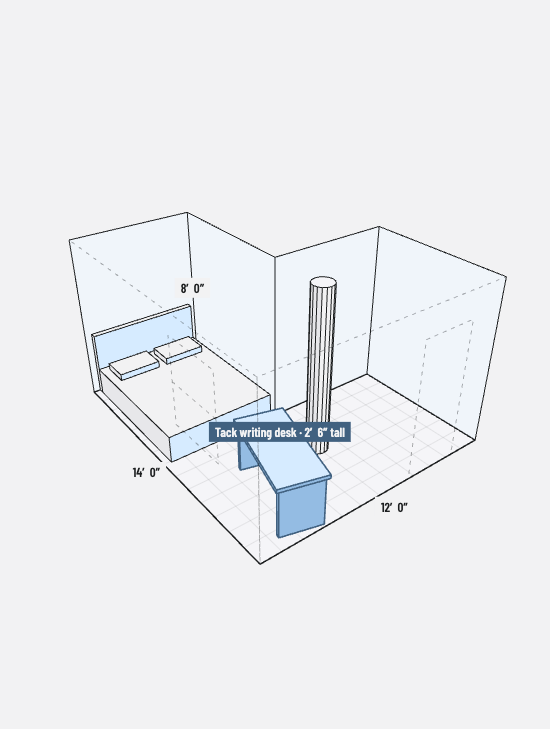
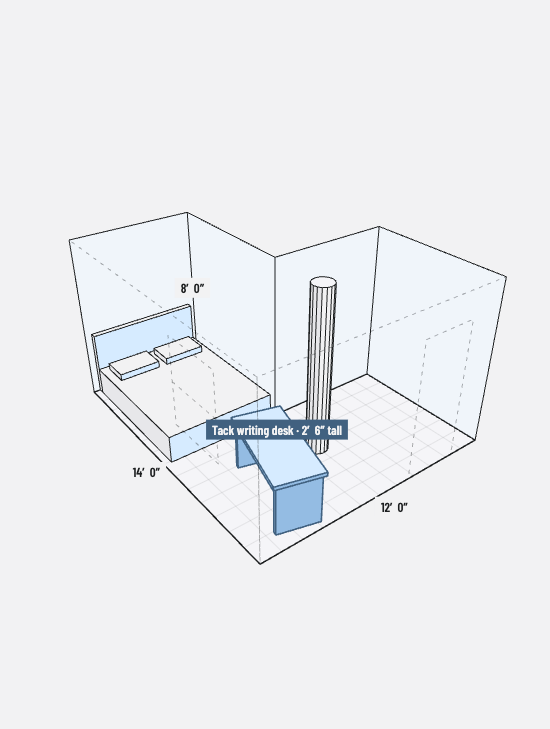
docs(room-planner): sharing live check run 2
Claude-Session: https://claude.ai/code/session_015TSBugnNtqeGNLtF4ZZCt3

Changed region(s): [[0.3709, 0.5432, 0.6491, 0.7545]]

diff --git a/docs/room-planner/verification/2026-11-17-sharing-live-check.md b/docs/room-planner/verification/2026-11-17-sharing-live-check.md
@@ -91,3 +91,89 @@ All in `docs/room-planner/verification/shots-sharing/`, each looked at after sav
   `Download 3D view` greyed with its reason).
 - `clipboard-fallback.png` (S16, page screenshot: the `Share link` field with the link selected).
 - `banner-and-notice.png` (S18, page screenshot: storage notice and view-only banner together).
+
+## Run 2
+
+- **Run on:** 2026-11-17, 22:19 to 22:23 UTC, after plan Amendments 2 and 3
+  (`docs/room-planner/plans/2026-11-17-sharing.md`).
+- **Commit checked:** `0876252` (`test(room-planner): make the Copied-timer test deterministic`),
+  branch `sharing`; the code fixes are in `7b918e6`. `git log` printed `0876252` as head before and
+  after the run, and nothing under `room-planner/` differs from it.
+- **Browser, viewport, URL, server:** as in run 1 (Playwright Chromium 156.0.8078.82, 1440 × 900 in
+  every context, device pixel ratio 1, `http://localhost:3478/room-planner` on the dev server that
+  was already running; it hot-reloaded the fixes and was not restarted). WebGL available. Every row
+  ran in a new browser context; reading methods as in run 1.
+- **Rows run:** S1, S2, S3, S5, S6, S7, S8, S10, S11 (amended checks), S12, S13, S15, S17, S18 and
+  the new rows X1 to X4. Not rerun (not asked for): S4, S9, S14, S16.
+- **Share link:** the same 470-character link as run 1 (the seeded plan encodes the same way).
+- **Images replaced:** `room-plan.png`, `room-3d.png` and `room-3d-blueprint.png` now hold run 2's
+  downloads; run 1's versions are in commit `b769853`.
+
+### Failures first (run 2)
+
+None. Every row run in run 2 passed.
+
+### Rows (run 2, `0876252`)
+
+| Row | What was done | Expected | Result | What was seen |
+|---|---|---|---|---|
+| S1 | New context, clipboard granted; planner (stored `null`); `Share` → `Copy link`; read the clipboard. | Address starting `http://localhost:3478/room-planner#plan=1.`; button `Copied`. | Pass | Panel `Copy link`, `Download floor plan`, `Download 3D view`, status; focus on `Copy link`. Button `Copied`; clipboard `http://localhost:3478/room-planner#plan=1.rZHNTsMwEIRfJZrzUjW_…` (470 characters, the same as run 1). |
+| S2 | New empty context, went to the link. | Sender's positions; notice `Opened a shared plan.`; no banner; no `#plan=`; saved key holds the plan. | Pass | Plan bed `(72, 42.5)`, desk `(131, 131.5)`; notice `Opened a shared plan.`; no banner; address `http://localhost:3478/room-planner`. Stored `schemaVersion` 3, the six document keys, outline `(0,0) (144,0) (144,168) (0,168)`, bed `(72, 42.5)` 0°, desk `(131, 131.5)` 90°. |
+| S3 | New context; bed dragged to `(42, 72.5)` (stored); `about:blank`; the link. | Banner with the first text; shared positions; saved key still holds the moved bed. | Pass | Banner `Viewing a shared plan. Your own plan is untouched, and changes here are not saved.` with `Keep this plan`, `Back to my plan`; `#plan=` kept; plan bed `(72, 42.5)`, desk `(131, 131.5)`; stored string identical to before; Undo `aria-disabled="true"`. |
+| S5 | In the S3 page: `Keep this plan` (banner then showed `Replace my plan`, `Cancel`, `Back to my plan`) → `Replace my plan`. | Banner gone; no `#plan=`; saved key equals the shared plan; Undo greyed. | Pass | No banner, no notice, address without fragment; stored plan equal to the plan S2 saved (bed `(72, 42.5)`, desk `(131, 131.5)`); Undo `aria-disabled="true"`. |
+| S6 | New context, same set-up as S3, then `Back to my plan`. | Moved bed back; banner gone; no `#plan=`. | Pass | Preview: same banner, bed `(72, 42.5)`. After: bed `(41.99, 72.5)` (screen rounding of stored `(42, 72.5)`), desk `(131, 131.5)`; no banner, no notice, no fragment; stored string unchanged. |
+| S7 | S6 context: `about:blank`, then the link minus its last 10 characters (ends `…5288-0W4Lt2SjTTJee1M`). | Own plan; notice `This shared link could not be read.`; no `#plan=`. | Pass | Notice `This shared link could not be read.`; no banner; no fragment; bed `(42, 72.5)`, desk `(131, 131.5)`; stored unchanged. (Storage works here, so Amendment 3 item 3 keeps the shared-link notice.) |
+| S8 | Same context: `about:blank`, then `#plan=9.AAAA`. | Own plan; notice `This shared link was made with a newer version of the planner.` | Pass | That notice; no banner; no fragment; bed `(42, 72.5)`, desk `(131, 131.5)`; stored unchanged. |
+| S10 | New context, clipboard granted, `Side by side`. `Edit room` → `L-shape`; `Add door` + click on wall 5 → `Door on wall 5`; `Add window` + click on wall 6 → `Window on wall 6`; `Add column` → `Column`; `Done`. Bed dragged to `(36, 42.5)`; desk dragged to the lower left and `Shift+R` (90° → 105°). The turn left the desk `Outside the room` at `(34, 140.5)` (stage `1 conflict`; a turn does not stop at walls), so the desk was dragged 4.5 in up; it stopped at `(33.67, 135.93)` and the stage read `Everything fits`. `Share` → `Copy link` (`Copied`, 957 characters); opened it in a new empty context. (A first copy taken while the desk was outside was also opened in an empty context: 0 differing fields there too.) | Every stored field equal to the sender's. | Pass | Receiver: `Opened a shared plan.`, no fragment. Field-by-field: all 76 leaf values equal, no missing or extra keys (6-corner outline with ids, height 96, units `ft`, bed `(36, 42.5)` 0°, desk `(33.67, 135.93)` 105°, door offset 20 width 32 height 80 hinge `start` swing `in`, window offset 30 width 36 sill 36 height 48, column `cylinder` `(72, 120.75)` 12 × 12 × 96). Both strings the same length. |
+| S11 | S10 sender (`Everything fits`), panel open: `Download floor plan`; saved over `shots-sharing/room-plan.png`; decoded and looked at. Label widths measured in the page with the picture's font (`600 28px Barlow, sans-serif`, `document.fonts.check` true): `6′ 0″` 64.62 px, `7′ 0″` 63.48, `12′ 0″` 75.18, `14′ 0″` 76.44. | Amended checks (Amendment 2 item 2), listed in "What was seen". | Pass | Name `room-plan.png`. Size 1760 × 2000 (longer side 2000). Scale 10 px/in, origin (160, 160). (4, 4) `#ffffff`. Bed: horizontal centre x = 160 + 36 × 10 = 520, top edge y = 160 + (42.5 − 42.5) × 10 = 160, probe (520, 200) = `#e4e8ee`. Middles of walls with no opening: wall 1 (520, 160), wall 2 (880, 580), wall 3 (1240, 1000), wall 4 (1600, 1420) all `#1a1c2c`. 50-px grid: 1440 samples, 0 `#fbdada` / `#b3261e` (0 in the whole image). Wall-length clearance (method below): for all 6 labels the rule puts the text box's near edge 19.0 px from the wall line; the strip 6 to 13 px out from the wall line along each label's extent has 0 pixels that are not white or floor (552, 264, 552, 264, 632, 264 pixels scanned for walls 1 to 6); the nearest dark text pixel of each label is 25, 19, 25, 19, 22 and 21 px from its wall line. Looking at the image: door swing arc **seen**; window line **seen** (blue, left wall, (160, 1360) `#2f6fb0`); every item's name **seen** (`Low platform bed, queen`, `Tack writing desk`, `Column`); a length on every wall, fully readable and not touching its wall, **seen** (`6′ 0″` above wall 1, `7′ 0″` right of wall 2, `6′ 0″` above wall 3, `7′ 0″` right of wall 4, `12′ 0″` below wall 5, `14′ 0″` left of wall 6, each with white space between it and the wall); credit line **seen** (`Room Planner · frankiesoltero.com/room-planner`). |
+| S12 | Same page, `Realistic` checked, panel reopened: `Download 3D view`; saved over `room-3d.png`. | Size equals the 3D canvas's attributes; (2, 2) equals the background; ≥ 20% differ and ≥ 50 colours on a 20-px grid; floor, walls, bed, desk listed. | Pass | Name `room-3d.png`. Canvas (`three.js r187`) 550 × 729; PNG 550 × 729. (2, 2) `#f2f2f3` = `--color-bg` (all four corners). 20-px grid: 1036 samples, 259 differ (25.00%), 61 distinct colours. Looking at it: floor **seen**, walls **seen**, bed **seen**, desk **seen** (with its selection outline; it was selected); column visible. |
+| S13 | Clicked `Blueprint` (closed the panel, as in run 1), reopened `Share`, `Download 3D view`; saved over `room-3d-blueprint.png`. | Size equals the blueprint canvas's attributes; (2, 2) equals the background; ≥ 1% differ on a 20-px grid; outline, bed, desk listed. | Pass | Name `room-3d.png`. Render style `blueprint`; canvas 550 × 729; PNG 550 × 729. (2, 2) `#f2f2f3` (all four corners). 20-px grid: 1036 samples, 234 differ (22.59%), 26 distinct colours. Looking at it: room outline **seen** (L-shape lines, floor grid, `14′ 0″`, `12′ 0″`, `8′ 0″`), bed **seen**, desk **seen** (with the tag `Tack writing desk · 2′ 6″ tall`). |
+| S15 | Same page, desk selected (`aria-pressed="true"`), panel open with focus inside it (after X2's keys and Tab, focus on `Download floor plan`): Escape. | Panel closes; piece stays selected. | Pass | Dialog gone; desk `aria-pressed="true"`; selection bar `Tack writing desk 55 × 26 × 30 in … Rotate 90° … Remove`; focus on `Share` (`aria-expanded="false"`); stored plan unchanged. |
+| S17 | Console, page-error, request and websocket listeners on every page and context of run 2, plus the MCP tool's console log. | 0 errors, 0 warnings; only `localhost:3478`. | Pass | 0 console errors, 0 warnings, 0 page errors (MCP log: 0 and 0). 308 requests, all to `localhost:3478`; websockets only `ws://localhost:3478/_next/webpack-hmr` (21 connections, one per page load). |
+| S18 | Measured at 1440 × 900 in: no bar (S1 page), notice only (S2 page, `Opened a shared plan.`), banner only (S3 preview), banner and notice (context whose `localStorage` getter throws `SecurityError`, opening the link: notice `This browser is blocking storage, so changes will not be saved.` above the banner `Viewing a shared plan. Changes here are not saved.` with only `Back to my plan`). | `scrollHeight <= innerHeight`; `.stage` bottom within 1 px of `.app-main` bottom minus the selection bar; sidebar bottom within 1 px of `innerHeight`. | Pass | All four: `scrollHeight` 900, `innerHeight` 900, `innerWidth` 1440; `.stage` bottom 844, `.app-main` bottom 900, selection bar 56 (difference 0); `.sidebar` bottom 900. Screenshot `banner-and-notice-run2.png`. |
+| X1 | New context; bed dragged to `(42, 72.5)` (stored); `about:blank`; the link (preview banner, `#plan=` in the address). `Reset plan` (the section then showed `Erase everything and start over`, `Cancel`) → `Erase everything and start over`. Read at once, after 1 s, and after a reload. | Banner gone; no `#plan=`; after 1 s the saved key holds the starting plan (bed x 72, y 42.5); reload: starting plan, no notice, no banner. | Pass | Right after the click: no banner, no notice, address `http://localhost:3478/room-planner`. After 1 s stored: outline `(0,0) (144,0) (144,168) (0,168)`, bed `(72, 42.5)` 0°, desk `(131, 131.5)` 90°; plan shows bed `(71.99, 42.5)`. After reload: no notice, no banner, no fragment, bed `(71.99, 42.5)`, desk `(131, 131.5)`; stored string the same as before the reload. |
+| X2 | S10 sender page, desk selected, Undo enabled (history has steps). `Share` (focus on `Copy link`); pressed `ArrowRight`, `Delete`, `Backspace`, `r`, `ControlOrMeta+z` (Meta on this macOS host) one at a time, reading the saved plan 800 ms after each; then Tab; then Escape. | Plan never changes; desk stays selected; panel stays open; Tab moves to the next panel button; Escape closes, focus on `Share`. | Pass | Before: desk `(33.67, 135.93)` 105°. After each of the five keys: stored string identical to before, 2 items, desk `aria-pressed="true"`, dialog open, focus still `Copy link`. Tab: focus `Download floor plan`, dialog open, desk selected. Escape: dialog closed, focus `Share` (`aria-expanded="false"`), desk selected, stored unchanged. Control: with focus outside the panel the same `ArrowRight` moved the desk to `(34.67, 135.93)`, so the keys do act outside the panel; one `Undo` put the stored plan back to the X2 starting string. |
+| X3 | (a) New context; selected the desk and pressed Delete, so the own plan holds only `seed-bed` at `(72, 42.5)`; `about:blank`; the link (preview has `seed-bed`, `seed-desk`); clicked the desk (selected, selection bar `Tack writing desk …`); `Back to my plan`. (b) Same with an own plan that keeps both pieces (bed moved to `(42, 72.5)`). | Own plan shown, banner gone, no selection UI for a piece not in the own plan (if the same id is in both plans, say so and record what is selected). | Pass | (a) After `Back to my plan`: only `seed-bed` on the plan at `(71.99, 42.5)`; no banner, no notice, no fragment; no element with `aria-pressed="true"`; the selection bar shows the hint text (`Drag a piece on the plan to move it, …`), no piece controls. Screenshot `run2-x3-back-to-my-plan.png`. (b) The same id `seed-desk` is in both plans: after `Back to my plan` the own plan shows bed `(41.99, 72.5)`, desk `(131, 131.5)`, and the desk stays selected (`aria-pressed="true"`, selection bar `Tack writing desk 55 × 26 × 30 in … Remove`); no banner, no fragment. |
+| X4 | Context whose `localStorage` getter throws `SecurityError` (as in run 1's S18): opened the link minus its last 10 characters; then `about:blank` and `#plan=9.AAAA`. | Notice is the storage one, not the shared-link one; no `#plan=`. | Pass | Damaged link: notice `This browser is blocking storage, so changes will not be saved.` (the only non-empty status text on the page), no banner, address without fragment, seeded plan shown (bed `(72, 42.5)`, desk `(131, 131.5)`). Newer link: the same storage notice, no banner, no fragment. Screenshot `run2-x4-blocked-newer-link.png` (the newer-link case). |
+
+### How the S11 label clearance was measured
+
+From the stored outline `(0,0) (72,0) (72,84) (144,84) (144,168) (0,168)` and the picture's layout
+(scale 10, origin 160), for each wall: the unit normal `n = (−dy, dx) / length`, turned outward by
+testing a point 1 in along it against the outline; the label text `fmtLen` gives (`6′ 0″`, `7′ 0″`,
+`6′ 0″`, `7′ 0″`, `12′ 0″`, `14′ 0″`); its width measured in the page as above; the centre placed
+where Amendment 2 item 1's rule puts it (`19 + |n.x| × width / 2 + |n.y| × 14` px from the midpoint
+along the outward normal: 33 px for level walls, 50.7 px for the `7′ 0″` walls, 57.2 px for
+`14′ 0″`). The text box is that width by 28 px. Then, over the label's extent along the wall (± half
+its width or ± 14 px, plus 2 px), every pixel at a whole-pixel distance of 6 to 13 px out from the
+wall line was read: 6 px is just past the 10-px wall stroke (half width 5) and its anti-aliasing,
+13 px is 8 px beyond the stroke. A pixel counted as a fault if it was not `#ffffff` and not the floor
+`#f7f5f0`; there were none. Separately, over the same extent, the nearest pixel darker than an RGB
+sum of 450 beyond 6 px was found (the label's ink): 19 to 25 px from the wall line for every label,
+so at least 14 px clear of the stroke. Ink boxes: wall 1 x 489–551, y 116–135; wall 2 x 899–961,
+y 569–588; wall 3 x 1209–1271, y 956–975; wall 4 x 1619–1681, y 1409–1428; wall 5 x 843–916,
+y 1862–1881; wall 6 x 65–139, y 989–1008.
+
+### Other observations (run 2)
+
+- **Turning a piece next to a wall can put it outside the room.** In S10, `Shift+R` on the desk
+  lying flush with the bottom wall turned it to 105° partly through the wall (`Outside the room`,
+  `1 conflict`); a drag then stopped it inside. A turn does not stop at walls the way a drag does.
+  This is earlier behaviour, not part of sharing.
+- **The saved 3D pictures still include the selection** (outline in `room-3d.png`, the desk's tag in
+  `room-3d-blueprint.png`), as noted in run 1. The capture path was not changed.
+- **X3 (b):** when the shared plan and the own plan share a piece id (`seed-desk`; both start from the
+  seeded plan), the selection made in the preview carries over to the own plan's piece of the same id.
+- Run 1's wall-length overlap is gone: every length now sits clear of its wall (S11).
+
+### Saved images (run 2)
+
+In `docs/room-planner/verification/shots-sharing/`, each looked at after saving:
+
+- `room-plan.png` (S11, replaced: run 2's floor plan, 1760 × 2000).
+- `room-3d.png` (S12, replaced: run 2's realistic 3D view, 550 × 729).
+- `room-3d-blueprint.png` (S13, replaced: run 2's blueprint view, 550 × 729).
+- `banner-and-notice-run2.png` (S18, storage notice above the view-only banner).
+- `run2-x3-back-to-my-plan.png` (X3 (a): own plan with the bed only, no selection).
+- `run2-x4-blocked-newer-link.png` (X4: blocked storage and a newer-version link, storage notice
+  shown).
